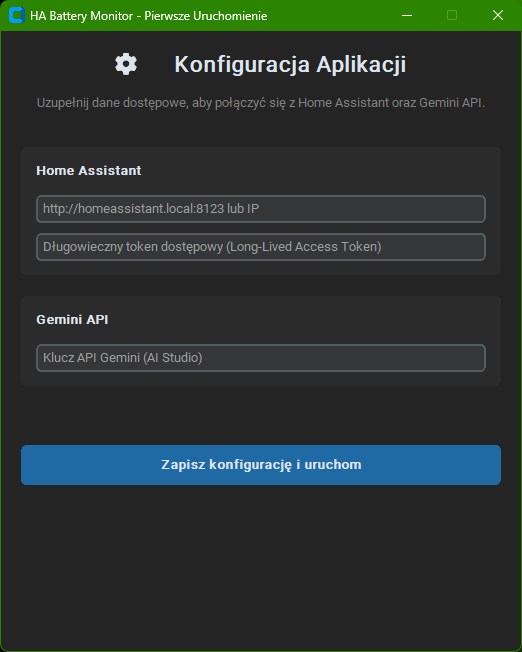
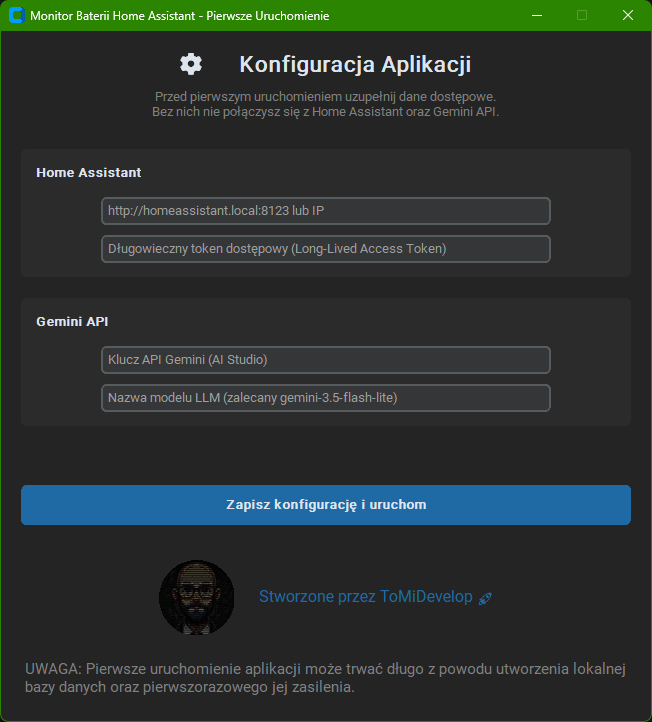
New config window - with link to authors gitlab page, the possibility to choose own Gemini model and a little disclaimer.
A little change in report - now footer shows used tokens number and exact model name.

diff --git a/src/configwindow.py b/src/configwindow.py
@@ -3,6 +3,9 @@
 from pathlib import Path
 import customtkinter as ctk
 from dotenv import set_key
+import webbrowser
+from PIL import Image, ImageDraw,ImageOps
+import sys
 
 # Custom imports
 
@@ -17,13 +20,29 @@ class ConfigWindow(ctk.CTk):
 
     def __init__(self, env_path: Path):
         super().__init__()
+
+        # obtaining base dir and setting author.png path
+        self.BASE_DIR : Path = Path("")
+        if getattr(sys, "frozen", False):
+            # App running as .exe from PyInstaller
+            self.BASE_DIR = Path(sys.executable).resolve().parent
+        else:
+            # App running from source code .py
+            self.BASE_DIR = Path(__file__).resolve().parent
+        self.PICS_DIR = self.BASE_DIR / "pics"
+        self.AUTH_DIR = self.PICS_DIR / "author.png"
+
+        # env path variable
         self.env_path = env_path
 
+        # windows title
         self.title(f"{configWindow["plTitle"]}")
-        self.geometry("520x620")
+
+        # window geometry
+        self.geometry("650x690")
         self.resizable(False, False)
 
-        # Main header
+        # --- Main Header Section ---
         self.header_label = ctk.CTkLabel(
             self,
             text=f"⚙ {configWindow["plMainHeaderText"]}",
@@ -39,7 +58,7 @@ class ConfigWindow(ctk.CTk):
         )
         self.sub_label.pack(padx=20, pady=(0, 20))
 
-        # --- Sekcja Home Assistant ---
+        # --- Home Assistant Section ---
         self.ha_frame = ctk.CTkFrame(self)
         self.ha_frame.pack(fill="x", padx=20, pady=10)
 
@@ -65,7 +84,7 @@ class ConfigWindow(ctk.CTk):
         )
         self.ha_token_entry.pack(padx=15, pady=(5, 15))
 
-        # --- Sekcja Gemini API ---
+        # --- Gemini API Section---
         self.gemini_frame = ctk.CTkFrame(self)
         self.gemini_frame.pack(fill="x", padx=20, pady=10)
 
@@ -80,7 +99,14 @@ class ConfigWindow(ctk.CTk):
             show="*",
             width=450,
         )
-        self.gemini_key_entry.pack(padx=15, pady=(5, 15))
+        self.gemini_key_entry.pack(padx=15, pady=5)
+
+        self.gemini_model_entry = ctk.CTkEntry(
+            self.gemini_frame,
+            placeholder_text=f"{configWindow["plMainHeaderGeminiModelText"]}",
+            width=450,
+        )
+        self.gemini_model_entry.pack(padx=15, pady=(5, 15))
 
         # Status Error / Info
         self.status_label = ctk.CTkLabel(
@@ -96,7 +122,70 @@ class ConfigWindow(ctk.CTk):
             height=40,
             font=ctk.CTkFont(weight="bold"),
         )
-        self.save_button.pack(fill="x", padx=20, pady=(10, 20))
+        self.save_button.pack(fill="x", padx=20, pady=(10, 35))
+
+        # --- Author Footer Section---
+        self.footer_frame = ctk.CTkFrame(self, fg_color="transparent")
+        self.avatar_image = self.get_circular_avatar(self.AUTH_DIR, size=(75, 75))
+        self.avatar_label = ctk.CTkLabel(
+            self.footer_frame,
+            image=self.avatar_image,
+            text=""
+        )
+        self.author_text_label = ctk.CTkLabel(
+            self.footer_frame,
+            text=f"{configWindow['plCreatedBy']} 🚀",
+            font=ctk.CTkFont(size=16, underline=False),
+            text_color=("#1f538d", "#1f6aa5"),  # color reacting to light / dark theme
+            cursor="hand2"
+        )
+        self.create_author_footer()
+
+        # --- Disclaimer bottom text ---
+        self.disclaimer_label = ctk.CTkLabel(
+            self,
+            text=f"{configWindow['plDisclaimer']}",
+            font=ctk.CTkFont(size=15, underline=False),
+            wraplength=620,
+            text_color="gray",
+            justify="left",
+            anchor="center"
+        )
+        self.disclaimer_label.pack(fill='x', padx=20, pady=(15, 20))
+
+    @staticmethod
+    def open_author_site(self, event=None):
+        webbrowser.open_new_tab("https://tomidevelop.github.io")
+
+    @staticmethod
+    def get_circular_avatar(imagePath: Path, size: tuple = (70, 70)):
+        """Loads image, adjusts it and cuts to a circle."""
+        if not imagePath.exists():
+            return None
+        img = Image.open(imagePath).convert("RGBA")
+        # Crop to rectangle with set size
+        img = ImageOps.fit(img, size, Image.Resampling.LANCZOS)
+        # Creating circular mask
+        mask = Image.new("L", size, 0)
+        draw = ImageDraw.Draw(mask)
+        draw.ellipse((0, 0) + size, fill=255)
+        img.putalpha(mask)
+        return ctk.CTkImage(light_image=img, dark_image=img, size=size)
+
+    def create_author_footer(self):
+        # Author container
+        self.footer_frame.pack(pady=(0, 10))
+        self.footer_frame.bind("<Button-1>", self.open_author_site)
+
+        # Attempt to load the avatar
+        if self.avatar_image:
+            self.avatar_label.pack(side="left", padx=(0, 25), pady=(0,0))
+            self.avatar_label.bind("<Button-1>", self.open_author_site)
+
+        # Text with link
+        self.author_text_label.pack(side="left")
+        self.author_text_label.bind("<Button-1>", self.open_author_site)
+
 
     def on_close(self):
         print("Closing app, config windows closed without usage...")
@@ -106,9 +195,10 @@ class ConfigWindow(ctk.CTk):
         ha_url = self.ha_url_entry.get().strip()
         ha_token = self.ha_token_entry.get().strip()
         gemini_key = self.gemini_key_entry.get().strip()
+        gemini_model = self.gemini_model_entry.get().strip()
 
         # Simple validation
-        if not ha_url or not ha_token or not gemini_key:
+        if not ha_url or not ha_token or not gemini_key or not gemini_model:
             self.status_label.configure(
                 text=f"❌ {configWindow["plSimpleValidationText"]}", text_color="red"
             )
@@ -122,6 +212,7 @@ class ConfigWindow(ctk.CTk):
         set_key(str(self.env_path), "HA_URL", ha_url)
         set_key(str(self.env_path), "HA_TOKEN", ha_token)
         set_key(str(self.env_path), "GEMINI_API_KEY", gemini_key)
+        set_key(str(self.env_path), "GEMINI_MODEL_NAME", gemini_model)
 
         print(f"{configWindow["plConfigSavedMessage"]}")
         self.destroy()  # Zamkcie okna po udanym zapisie
@@ -132,7 +223,7 @@ def showConfigWindow(env_path: Path):
     app.mainloop()
 
 
-if __name__ == "__main__":
-    # local test
-    env_file = Path(__file__).resolve().parent / ".env"
-    show_config_window(env_file)
+# if __name__ == "__main__":
+#     # local test
+#     env_file = Path(__file__).resolve().parent / ".env"
+#     show_config_window(env_file)

diff --git a/src/ai.py b/src/ai.py
@@ -6,7 +6,6 @@ from google import genai
 from google.genai import types
 import os
 
-
 # custom imports
 
 from database import *
@@ -16,6 +15,10 @@ class Gemini:
     def __init__(self):
         # Load Gemini API Token
         self.geminiToken = os.getenv("GEMINI_API_KEY")
+        # Load Gemini model name
+        self.modelName = os.getenv("GEMINI_MODEL_NAME")
+        if self.modelName is None:
+            self.modelName = "gemini-3.5-flash-lite"
         # define Gemini client instance
         self.client = genai.Client(api_key = self.geminiToken)
         # initializing HADBData class instance and load data from db
@@ -39,19 +42,21 @@ class Gemini:
 
     # method of sending a prompt and returning Gemini response
 
-    def askGemini(self, model_name: str = "gemini-3.6-flash") -> str:
+    def askGemini(self) -> list[str]:
         """
         Sends full request with JSON to Gemini and returns a Markdown response.
         Returns simple string with an error message if something goes
         wrong with an HTTP/API request.
         """
+        if self.modelName is None:
+            self.modelName = "gemini-3.5-flash-lite"
         tokenCount = self.client.models.count_tokens(
-            model=model_name, contents=self.promptFull
+            model=self.modelName, contents=self.promptFull
         )
         print(f"Tokens number in prompt: {str(cast(int, tokenCount.total_tokens))}")
         try:
             response = self.client.models.generate_content(
-                model=model_name,
+                model=self.modelName,
                 contents=self.promptFull,
                 config=types.GenerateContentConfig(
                     system_instruction=self.system_instruction,
@@ -64,9 +69,9 @@ class Gemini:
             # Returning plain text as a response (Markdown format)
             result: str | None = response.text
             if result is None:
-                return "Error in communication with Gemini API\n\nPlease try again later."
+                return ["Error in communication with Gemini API\n\nPlease try again later."]
             else:
-                return result
+                return [result, str(cast(int, tokenCount.total_tokens))]
         except Exception as e:
             print(f"Error in communication with Gemini API: {e}")
-            return f"Error in communication with Gemini API: {e}"
+            return [f"Error in communication with Gemini API: {e}"]

diff --git a/src/reporter.py b/src/reporter.py
@@ -1,12 +1,20 @@
-import os
 import markdown
 from pathlib import Path
 from messages import footers
 import sys
+import os
 
 class Reporter:
-    def __init__(self, geminiResponse : str):
-        self.markdownReport = geminiResponse
+    def __init__(self, geminiResponse : list[str]):
+        self.modelName = os.getenv("GEMINI_MODEL_NAME")
+        self.markdownReport = ""
+        self.tokens = ""
+        if len(geminiResponse) > 1:
+            self.markdownReport = geminiResponse[0]
+            self.tokens = geminiResponse[1]
+        else:
+            self.markdownReport = geminiResponse[0]
+            self.tokens = footers["plTokensNone"]
 
     @staticmethod
     def _get_base_dir() -> Path:
@@ -18,14 +26,16 @@ class Reporter:
             # Aplikacja uruchomiona z kodu źródłowego .py
             return Path(__file__).resolve().parent
 
-    def saveAnalysisToHml(self, outputPath: str = "reports\report.html") -> str:
+    def saveAnalysisToHml(self) -> str:
         """
         Converts Markdown text received  from Gemini to a good looking HTML
         with special tailored dedicated CSS.
         """
+        # Process Gemini model name
+        if self.modelName is None:
+            self.modelName = "gemini-3.5-flash-lite"
         # Markdown to HTML (with tables)
         htmlContent = markdown.markdown(self.markdownReport, extensions=['tables', 'fenced_code'])
-
         # Elegant html file structure with Home Assistant (dark mode)
         fullHtml = f"""<!DOCTYPE html>
 <html lang="pl">
@@ -72,7 +82,8 @@ class Reporter:
 <body>
     {htmlContent}
     <div class="footer">
-        {footers["plFooter"]}
+        <p>{footers["plFooter"]}</p>
+        <p>{footers["plTokens"]}: {self.tokens} | Model LLM: {self.modelName}</p> 
     </div>
 </body>
 </html>"""

diff --git a/src/messages.py b/src/messages.py
@@ -43,17 +43,22 @@ geminiPrompts = {
 }
 
 footers = {
-    "plFooter": "Raport wygenerowany automatycznie przez Home Assistant Battery Monitor z pomocą Google Gemini AI."
+    "plFooter": "Raport wygenerowany automatycznie przez Home Assistant Battery Monitor z pomocą Google Gemini AI.",
+    "plTokens": "Ilość tokenów zużytych w zapytaniu:",
+    "plTokensNone": "nieznane"
 }
 
 configWindow = {
-    "plTitle": "HA Battery Monitor - Pierwsze Uruchomienie",
+    "plTitle": "Monitor Baterii Home Assistant - Pierwsze Uruchomienie",
     "plMainHeaderText": "Konfiguracja Aplikacji",
-    "plMainHeaderSubLabelText": "Uzupełnij dane dostępowe, aby połączyć się z Home Assistant oraz Gemini API.",
+    "plMainHeaderSubLabelText": "Przed pierwszym uruchomieniem uzupełnij dane dostępowe.\nBez nich nie połączysz się z Home Assistant oraz Gemini API.",
     "plMAinHeaderHAIpText": "http://homeassistant.local:8123 lub IP",
     "plMainHeaderHALongLiveTokenText": "Długowieczny token dostępowy (Long-Lived Access Token)",
     "plMainHeaderAPIGeminiText": "Klucz API Gemini (AI Studio)",
+    "plMainHeaderGeminiModelText": "Nazwa modelu LLM (zalecany gemini-3.5-flash-lite)",
     "plSaveButtonText": "Zapisz konfigurację i uruchom",
     "plSimpleValidationText": "Wypełnij wszystkie pola przed zapisem!",
-    "plConfigSavedMessage": "Zapisano dane do pliku .env!"
+    "plConfigSavedMessage": "Zapisano dane do pliku .env!",
+    "plCreatedBy": "Stworzone przez ToMiDevelop",
+    "plDisclaimer": "UWAGA: Pierwsze uruchomienie aplikacji może trwać długo z powodu utworzenia lokalnej bazy danych oraz pierwszorazowego jej zasilenia."
 }

diff --git a/src/main.py b/src/main.py
@@ -29,10 +29,8 @@ urllib3.disable_warnings(urllib3.exceptions.InsecureRequestWarning)
 def get_base_dir() -> Path:
     """Returns folder, in which .exe lies (or main.py in developer mode)."""
     if getattr(sys, "frozen", False):
-        # Aplikacja uruchomiona jako .exe z PyInstallera
         return Path(sys.executable).resolve().parent
     else:
-        # Aplikacja uruchomiona z kodu źródłowego .py
         return Path(__file__).resolve().parent
 
 # Check (for the app first run - and just in case of moving the app id hadbdata.db exists
@@ -87,8 +85,6 @@ else:
 
 print("Opening Gemini report...")
 normalRun.geminiReport()
-
-
 
 # remove scheduled app process in Windows - uncomment bellow for testing purposes
 # winprocess.remove_autostart()
